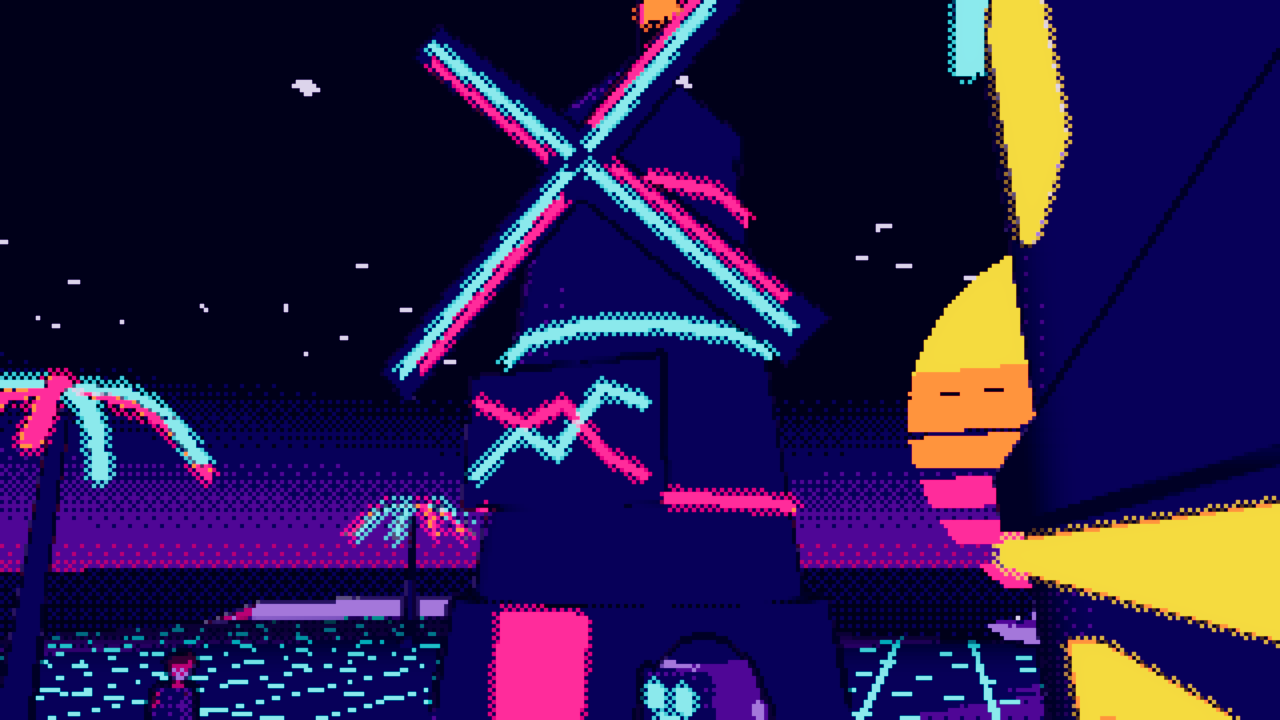
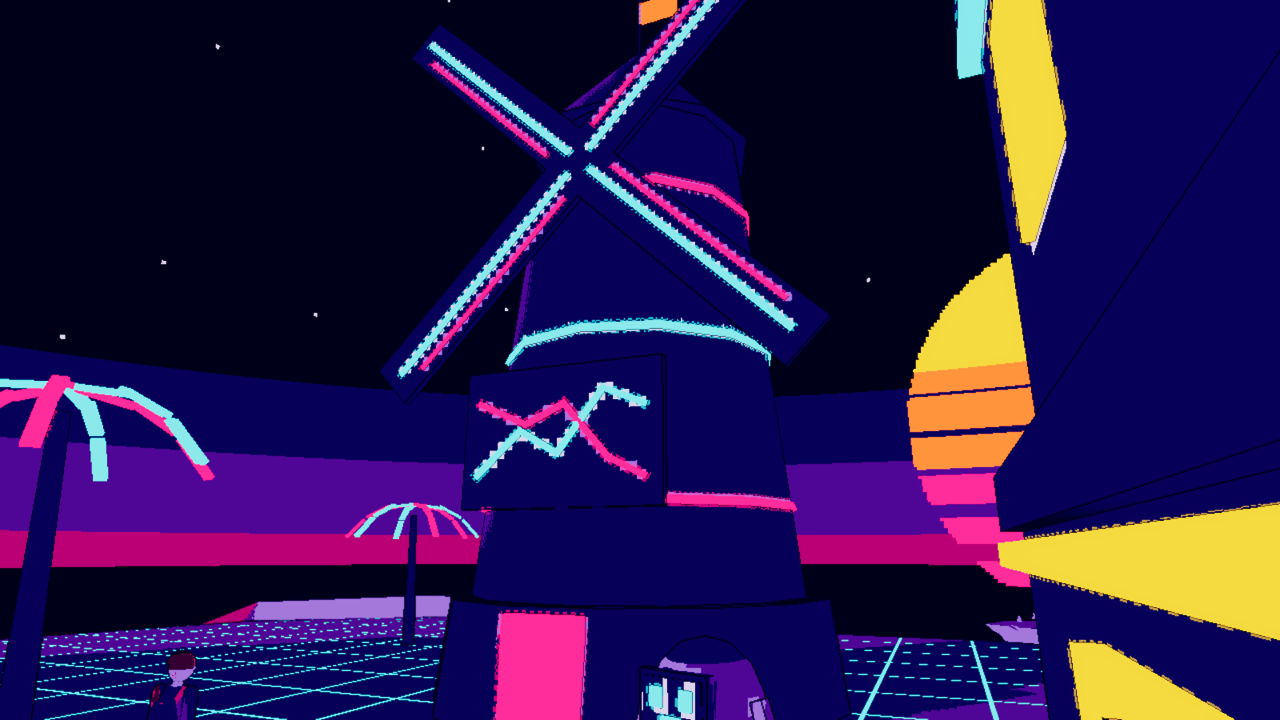
game3d: the crypto island's pixels belong to the world now — sharp edges, flat tones, no dithering over the picture (ADR-0031 revised)

diff --git a/docs/demo/G3D-crypto.md b/docs/demo/G3D-crypto.md
@@ -13,16 +13,27 @@ traded there; how crypto works in the game waits for her answers to intent 03 (q
 |---|---|
 | ![](g3d-crypto/crypto-towers.png) | ![](g3d-crypto/crypto-coin.png) |
 
-## The technique: synthwave pixel art
-- **Big pixels**: 180 rows whatever the window (320×180 at 16:9); each is the average of four samples of its cell.
-- **Twelve colours**: night `#1b1035`, deep violet, violet, lavender, pale; plum and magenta for warm things; neon
-  pink, orange, gold, cyan; teal. Bodies are sorted by brightness into five tones; anything bright and saturated
-  stays a neon.
-- **Ordered dithering** only in the narrow zone where two tones meet, so walls are flat colour.
-- **The sky** is drawn by the effect: bands from night down to magenta, a few fixed stars, a striped sun.
-- **The grid**: lines every two metres on the ground, in world space, cyan near and teal further off.
-- **Glow by dithering**: a checkerboard halo two big pixels wide round neon only.
-- V gives the plain version: no dithering, no grid, no halo.
+## The technique: synthwave, with pixels that belong to the world
+The first version cut the whole screen into big pixels (320×180) with dithering. Aika: "too pixelated, hard to look
+at, it swarms in the eyes". Now:
+- **object edges are sharp**; the chunky part is the paint on surfaces, in squares 14 cm wide **fixed to the world**
+  — they stay on the wall when the camera walks or turns;
+- **no dithering** over the picture: five flat tones by brightness; the only checkerboard is a small halo round neon;
+- the same twelve synthwave colours, the striped sun, the grid (lines at least a pixel wide, fading out before they crowd);
+- the sky is drawn in cells of direction, so it turns with the world;
+- nothing is animated. V gives the plain version (no grid, halo or outline).
+
+| Before | After |
+|---|---|
+| ![](g3d-crypto/before/crypto-street.png) | ![](g3d-crypto/crypto-street.png) |
+| ![](g3d-crypto/before/crypto.png) | ![](g3d-crypto/crypto.png) |
+| ![](g3d-crypto/before/crypto-coin.png) | ![](g3d-crypto/crypto-coin.png) |
+
+The same frame of a turning camera, enlarged (before, after):
+
+![](g3d-crypto/zoom-before-after.jpg)
+
+Plain version (V):
 
 ![](g3d-crypto/street-plain.png)
 
@@ -35,17 +46,21 @@ The sheets show ₿, another real coin's mark and the tickers BTC and ETH. The p
 - a test fails if `₿`, `BTC`, `ETH`, "bitcoin" or "ethereum" (ru or en) appears in the talks, the strings or the
   island's code.
 
-## Easy on the eyes — what was done and measured
-- **Nothing blinks.** The technique uses no clock at all (a test checks that): neon is steady, the grid does not
-  scroll, the sun does not move. With the camera standing still the picture changes by **0.7 of 255** between
-  frames — the people walking.
-- **Glow only at sources.** Neon is what the island's builder made emissive and saturated: bands, door frames,
-  some windows, palms, screens. Share of bright pixels in the fixed views: 7 %, 14 %, 11 %, 17 %, 17 %.
-- **On the move** (`--stroll --island=crypto`, 12 m along the street, a frame every 0.1 s): **19.1 of 255** — less
-  than the noir island (29.7), more than the watercolour one (11.4). What changes is the stepping of big-pixel
-  edges and of the grid lines; the grid is dropped before its lines come closer than about three big pixels.
-  Recording: [walking.gif](g3d-crypto/walking.gif). Whether it is comfortable is for Aika's eyes.
-- The screen is dark (it is night), but not black: the darkest tone is `#1b1035`.
+## On the move and on the turn
+Recordings, a frame every 0.1 s — walking 12 m along the street: [before](g3d-crypto/before/walking.gif),
+[after](g3d-crypto/walking.gif); standing and turning 2° a frame: [before](g3d-crypto/before/turning.gif),
+[after](g3d-crypto/turning.gif).
+
+| Mean change between frames, of 255 | Before | After |
+|---|---|---|
+| camera standing still | 0.70 | 0.66 |
+| walking | 19.1 | 16.9 |
+| turning | 28.5 | 24.6 |
+
+The numbers fall only a little, and that is honest: this measure counts every pixel that changes, and most of the
+change is bright neon sliding across a dark screen, which a turn must do. What the rework removed is of another
+kind — squares that jump from cell to cell and dots that swarm — and the measure hardly sees it; the enlarged
+frames and the recordings do. **Whether it is comfortable now is for Aika's eyes.**
 
 ![](g3d-crypto/walking.png)
 
@@ -61,7 +76,7 @@ The sheets show ₿, another real coin's mark and the tickers BTC and ETH. The p
 ![](g3d-crypto/harbour-posts.jpg)
 
 ## The captain is redrawn in pixels on landing
-![](g3d-crypto/captain-pixel.png)
+![](g3d-crypto/captain-pixel.jpg)
 
 Recording: [captain-pixel.gif](g3d-crypto/captain-pixel.gif).
 
@@ -99,17 +114,18 @@ godot --path game3d --resolution 1600x900 -- --audit=<dir> --only=crypto
 - World audit of the island: 0 findings (8149 of 8212 lattice cells reached from the pier; 36 villager strolls).
   Found and fixed on the way: a palm planted inside the mining machine, the coin's collider wider than the coin,
   a machine low enough to be climbed and fallen from.
-- GUT 113 green (4 new in `test_crypto_isle.gd`; the walk tests and the captain contract cover the fifth island).
-- Frame rate at 1920×1080: average 118 (display cap 120), 1 %-low 57–69, worst frame 19.4 ms.
+- GUT 113 green after the rework (4 in `test_crypto_isle.gd`, which now also checks that the technique lays nothing
+  out on a screen grid and does not dither the picture; the walk tests and the captain contract cover the fifth island).
+- Frame rate at 1920×1080 after the rework: average 292–349, 1 %-low 243–279, worst frame 4.2 ms (this run was not
+  capped by the display). The rework is cheaper than the first version: about 8 texture reads a pixel, not 14.
 
 ## Not done, not checked
 - Not played by hand.
-- **1 %-low was 57 in one of six views** — under 60. The same measure on other islands today ranged 55–100
-  between runs of the same code; this technique is the heaviest so far (about 14 texture reads a pixel).
 - No trading, no hall: the inside of the exchange (the wall of charts, the gears) is not built.
 - Not built from the sheets: outside stairs, the wallet chest, the broken neon sign, the flying ships, the
   crystals' own colours (the island's crystals are the usual ones, drawn cyan by the technique).
 - Costumes are approximations (no puffer jacket shape, no gas mask, no visor); the people and bots have one face each.
-- The wind sign on the coin is three strokes with hooks; at 180 rows it reads only from close by.
+- The wind sign on the coin is three strokes with hooks: a simple sign, not the curl of the sheet.
+- The world audit was not re-run after the rework: only the drawing changed.
 - The miner has no talk spot. The island has only a working name.
 - The other four islands were not re-audited: nothing of theirs changed.

diff --git a/docs/adr/0031-game3d-crypto-island-in-pixel-synthwave.md b/docs/adr/0031-game3d-crypto-island-in-pixel-synthwave.md
@@ -20,28 +20,32 @@ Limits set from outside:
   swarm when the camera moves.
 
 Forces:
-- Pixelating a moving 3D picture in screen space makes edges jump from cell to cell; that cannot be removed, only
-  kept calm.
+- Pixelating a moving 3D picture in screen space makes edges jump from cell to cell; that cannot be removed.
 - The effect can hold only a few colours per island as data (four `ramp` slots), and this technique wants twelve.
 - Every technique must redraw the captain (ADR-0029).
 
 ## Decision
-1. **A fifth technique, `pixel`** (technique 4), row `crypto` in `IslandStyle`:
-   - the picture is cut into **big pixels**, 180 rows high whatever the window; each takes the average of four
-     samples of its cell, not one (a single sample sparkles when the camera moves);
-   - **twelve colours**. Bodies are sorted by brightness into a five-step ramp — cool (night, deep violet, violet,
-     lavender, pale) or warm (night, plum, magenta, lavender, pale) — with **ordered dithering** between
-     neighbouring steps, on a pattern fixed to the big pixels. Anything bright *and* saturated is a **neon**: pink,
-     orange, gold or cyan, whichever is nearest;
-   - the **sky** is drawn by the effect from the direction of each pixel: bands from night down to magenta at the
-     horizon, a few fixed stars, and a **striped sun** low in the east, gold to pink, with gaps that widen downward;
-   - the **grid**: glowing lines every two metres on ground that faces up, laid out in world space, cyan near and
-     magenta far, faded out before a cell is smaller than a few big pixels;
-   - **glow by dithering**: a checkerboard halo two big pixels wide round neon things only;
-   - **nothing is animated by the effect**: no flicker, no pulsing. V gives the plain version: no dithering, no
-     grid, no halo.
-   The twelve colours are constants of the technique in the shader (the row gives the four the other code needs:
-   the night, the line, the wind's accent). That bends "the look is a row of data"; a palette is the technique.
+1. **A fifth technique, `pixel`** (technique 4), row `crypto` in `IslandStyle`. *(Revised while still Proposed.
+   The first version cut the whole screen into big pixels, 180 rows high, with ordered dithering between tones.
+   Aika: "too pixelated, hard to look at, it swarms in the eyes". Screen-space pixels step and crawl whenever the
+   camera moves; that cannot be tuned away, so the pixels left the screen.)*
+   - **texels that belong to the world**: the edges of things are drawn at full sharpness; what is chunky is the
+     paint on surfaces — squares 14 cm wide, found by snapping each pixel's place in the world to a grid on the
+     plane its surface faces and reading the picture at that square's centre. They stay on the wall when the
+     camera walks or turns. On the hero they are measured from the hero;
+   - **twelve colours in flat tones**: five steps by brightness, cool or warm, with hard edges and **no
+     dithering**. Anything bright and saturated is a neon — pink, orange, gold or cyan — judged at the pixel
+     itself, so neon has clean edges;
+   - the **sky** in cells of direction (a quarter of a degree; they turn with the world, not with the screen):
+     bands from night to magenta, a few stars, the **striped sun**;
+   - the **grid**: lines every two metres on the ground in world space, at least a pixel wide, fading out
+     smoothly before they crowd;
+   - **glow**: a small checkerboard halo round neon only — the one place with dithering; its squares are world
+     texels too;
+   - a thin dark outline as on the other islands; **nothing is animated**. V gives the plain version: no grid,
+     no halo, no outline.
+   The twelve colours are constants of the technique in the shader. That bends "the look is a row of data"; a
+   palette is the technique.
 2. **The island `crypto`** («Остров крипты», working name), built by `CryptoIsle`, reached by a third packet-boat
    post: a pier, a street of block towers with neon bands, glass walls and antennas, neon palms, and at its end the
    **Exchange That Never Closes**, a tower with four neon blades. Its door is a talk, not a trading hall.
@@ -61,7 +65,8 @@ Forces:
 | Alternative | Why not (now) |
 |---|---|
 | Render the whole game at 320×180 for this island | The HUD and comic pages would be pixelated too; switching the render size on arrival is a bigger change |
-| One sample per big pixel | Cheapest, and sparkles on every thin edge when the camera moves |
+| Big pixels over the whole screen (320×180, the first version; or 640×360) | They step and crawl with every camera move at any size; tried, and it hurt |
+| Pixelated textures on the meshes | The meshes have no textures or UVs; the effect can do the same from depth |
 | Bloom for the glow | Not pixel art; a soft blur over hard pixels; costs a pass |
 | Animated neon (flicker, scrolling grid) | The sheets' "broken neon" is charming and exactly what tires the eyes |
 | Palette as twelve uniforms from the table | Twelve more uniforms twice over (the captain's column) for one island |
@@ -72,10 +77,10 @@ Forces:
 - The pixel portraits from the sheet fit the comic pages as they are.
 
 ## Risks and costs
-- Edges of big pixels still step as the camera moves. We measure it and Aika judges it.
+- A texel whose centre is hidden behind something keeps its own pixel's colour: a thin seam at some edges.
+- With clean edges and flat tones the look is closer to a neon poster than to strict pixel art. Aika judges it.
 - Night: most of the screen is dark violet. It is not black, and neon is rare by construction; still, a long stay
   may tire. One number (the ramp's floor) lifts it.
-- Dithered surfaces crawl a little when their brightness changes under a moving camera.
 - The islanders' costumes are approximations in the old garments (no puffer jacket, no gas mask).
 - The island's name and its place in the world bible are open (the Outskirts of Storms fit "unregulated").
 

diff --git a/docs/design/README.md b/docs/design/README.md
@@ -7,7 +7,7 @@ Palette, light and world notes: `docs/design/game3d-style.md`. Lore: `docs/lore/
 > Islands: each island is drawn in a technique of its own, chosen by Aika (ADR-0026, 0029) — Spark Harbour in pen
 > and ink (the style below), Silk Reach as **katazome**, a Japanese stencil-resist print in several blues, ochre and rust (sheet 28; 27 for the motifs), Amber Cliff
 > in **pen and watercolour**, a French travel sketchbook (sheets 29–34), the short sellers' island as **noir** —
-> black, white and one red (sheets 35–40; ADR-0030), the crypto island as **synthwave pixel art** (sheets 41–46;
+> black, white and one red (sheets 35–40; ADR-0030), the crypto island as **synthwave pixel art, softened** — sharp edges, texels fixed to the world, no dithering (sheets 41–46;
 > ADR-0031). **No real brands**: where a sheet showed a real coin's mark or ticker, the copy here has it covered and
 > the game uses its own wind coin. The technique and its colours are a row in
 > `game3d/scripts/island_style.gd`. **The captain is redrawn in the technique of every port** by the island's wind

diff --git a/DECISIONS.md b/DECISIONS.md
@@ -457,3 +457,11 @@ Build and CI
 - Real coin marks on sheets 41, 44, 45 are covered with a flat night-coloured box in the repository's copies.
 - The wharf has three packet-boat posts now (x = 24.6, 28.4, 33.0); each has its own spot radius so they do not overlap.
 - Demo pictures of this island are PNG scaled with nearest-neighbour: JPEG smears big pixels.
+
+## G3D crypto island, softer (ADR-0031 revised)
+- Texel 14 cm; a texel's paint is taken from its centre only if that centre is on the same surface (depth within
+  0.12 m + 2 % of the distance), else the pixel keeps its own colour.
+- Grid lines: half-width max(4.5 cm, 0.9 px); faded between 16 and 7 pixels a cell. Halo: 5 px reach (at 1080p),
+  45 % strength, on every other half-texel.
+- Sky cells: 1/240 rad. Stars: 0.15 % of cells above 0.2 rad.
+- `--stroll` takes `--turn` (stand and turn 2° a frame).

diff --git a/docs/STATUS.md b/docs/STATUS.md
@@ -5,7 +5,7 @@ Updated: 2026-11-17, G3D looks, talk, Amber Cliff. Demos: `docs/demo/M4.md`, `do
 
 ## G3D crypto island (ADR-0031, Proposed) — `docs/demo/G3D-crypto.md`
 - A fifth island: a night town of neon towers with the Exchange That Never Closes, drawn as synthwave pixel art
-  (180 rows of big pixels, twelve colours, a striped sun, a ground grid, nothing animated). A place and a style: no
+  (twelve colours in flat tones, texels fixed to the world, sharp edges, a striped sun, a ground grid, nothing animated; reworked after Aika found screen pixels hard on the eyes). A place and a style: no
   crypto mechanics (they wait for intent 03). Four islanders and three robots; the game's own wind coin, no real
   coin's mark or name (a test guards it). Audit 0, GUT 113, 118 fps average at 1080p (1 %-low 57–69).
 
